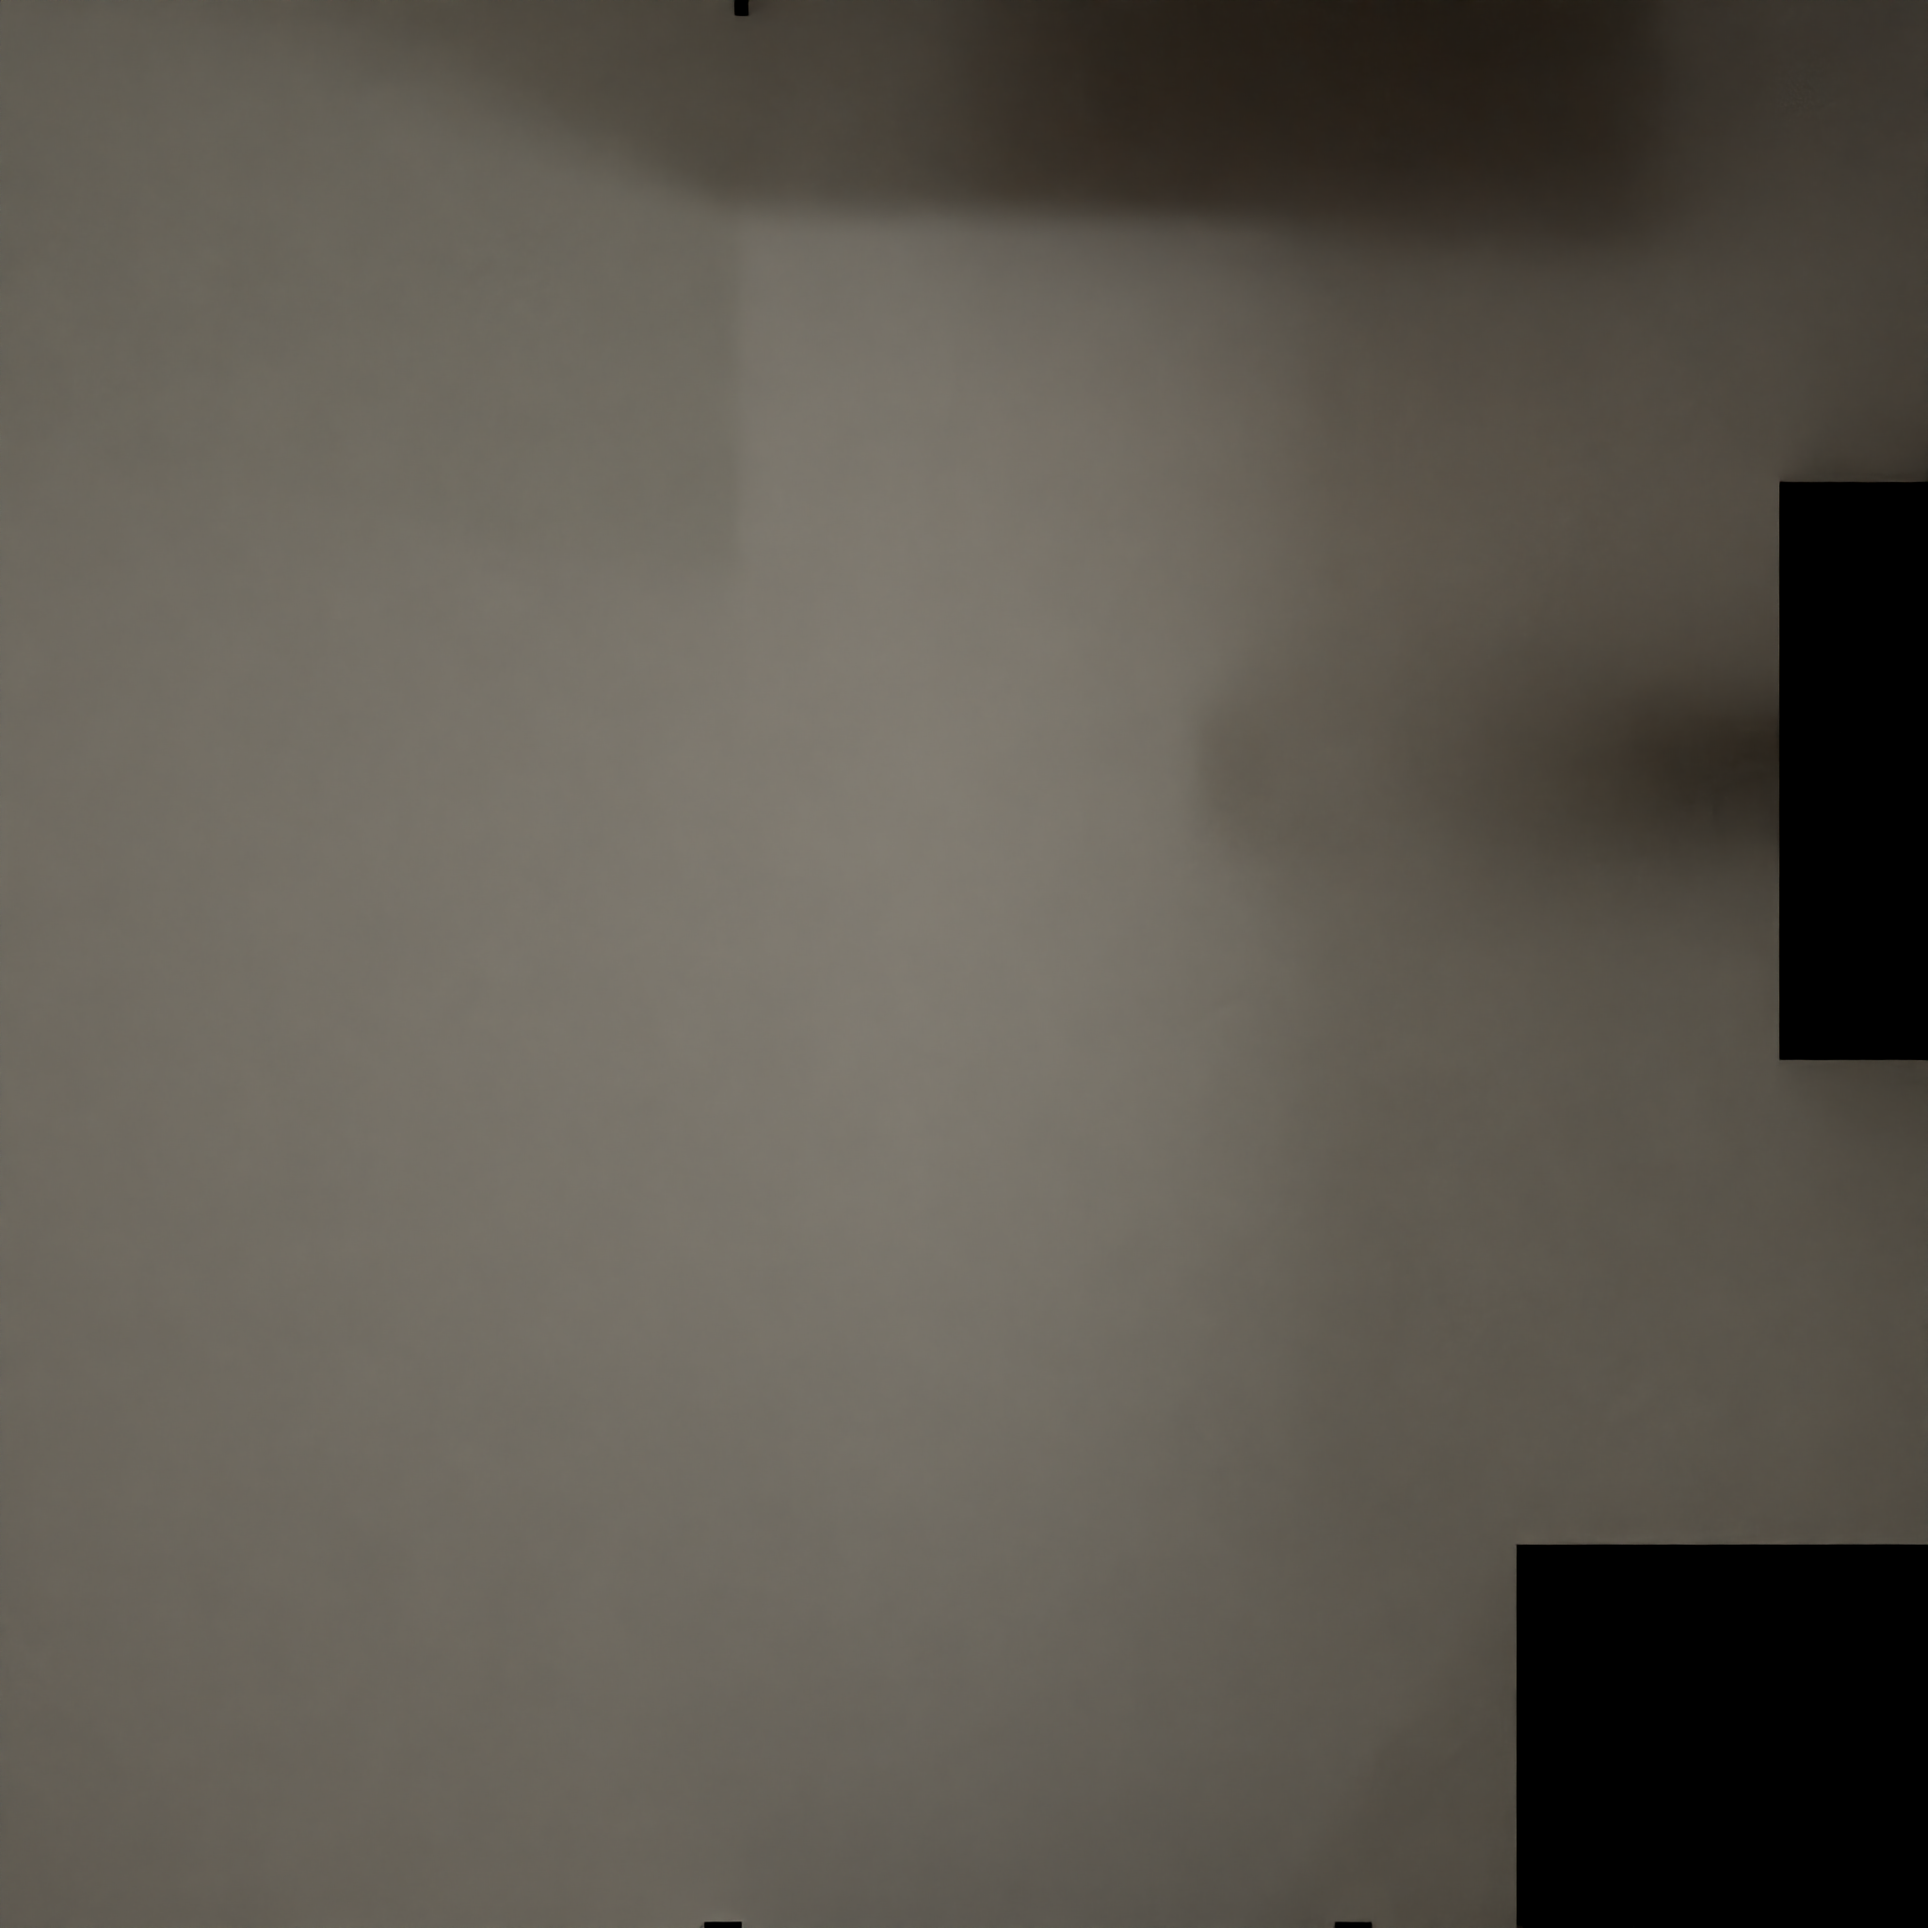
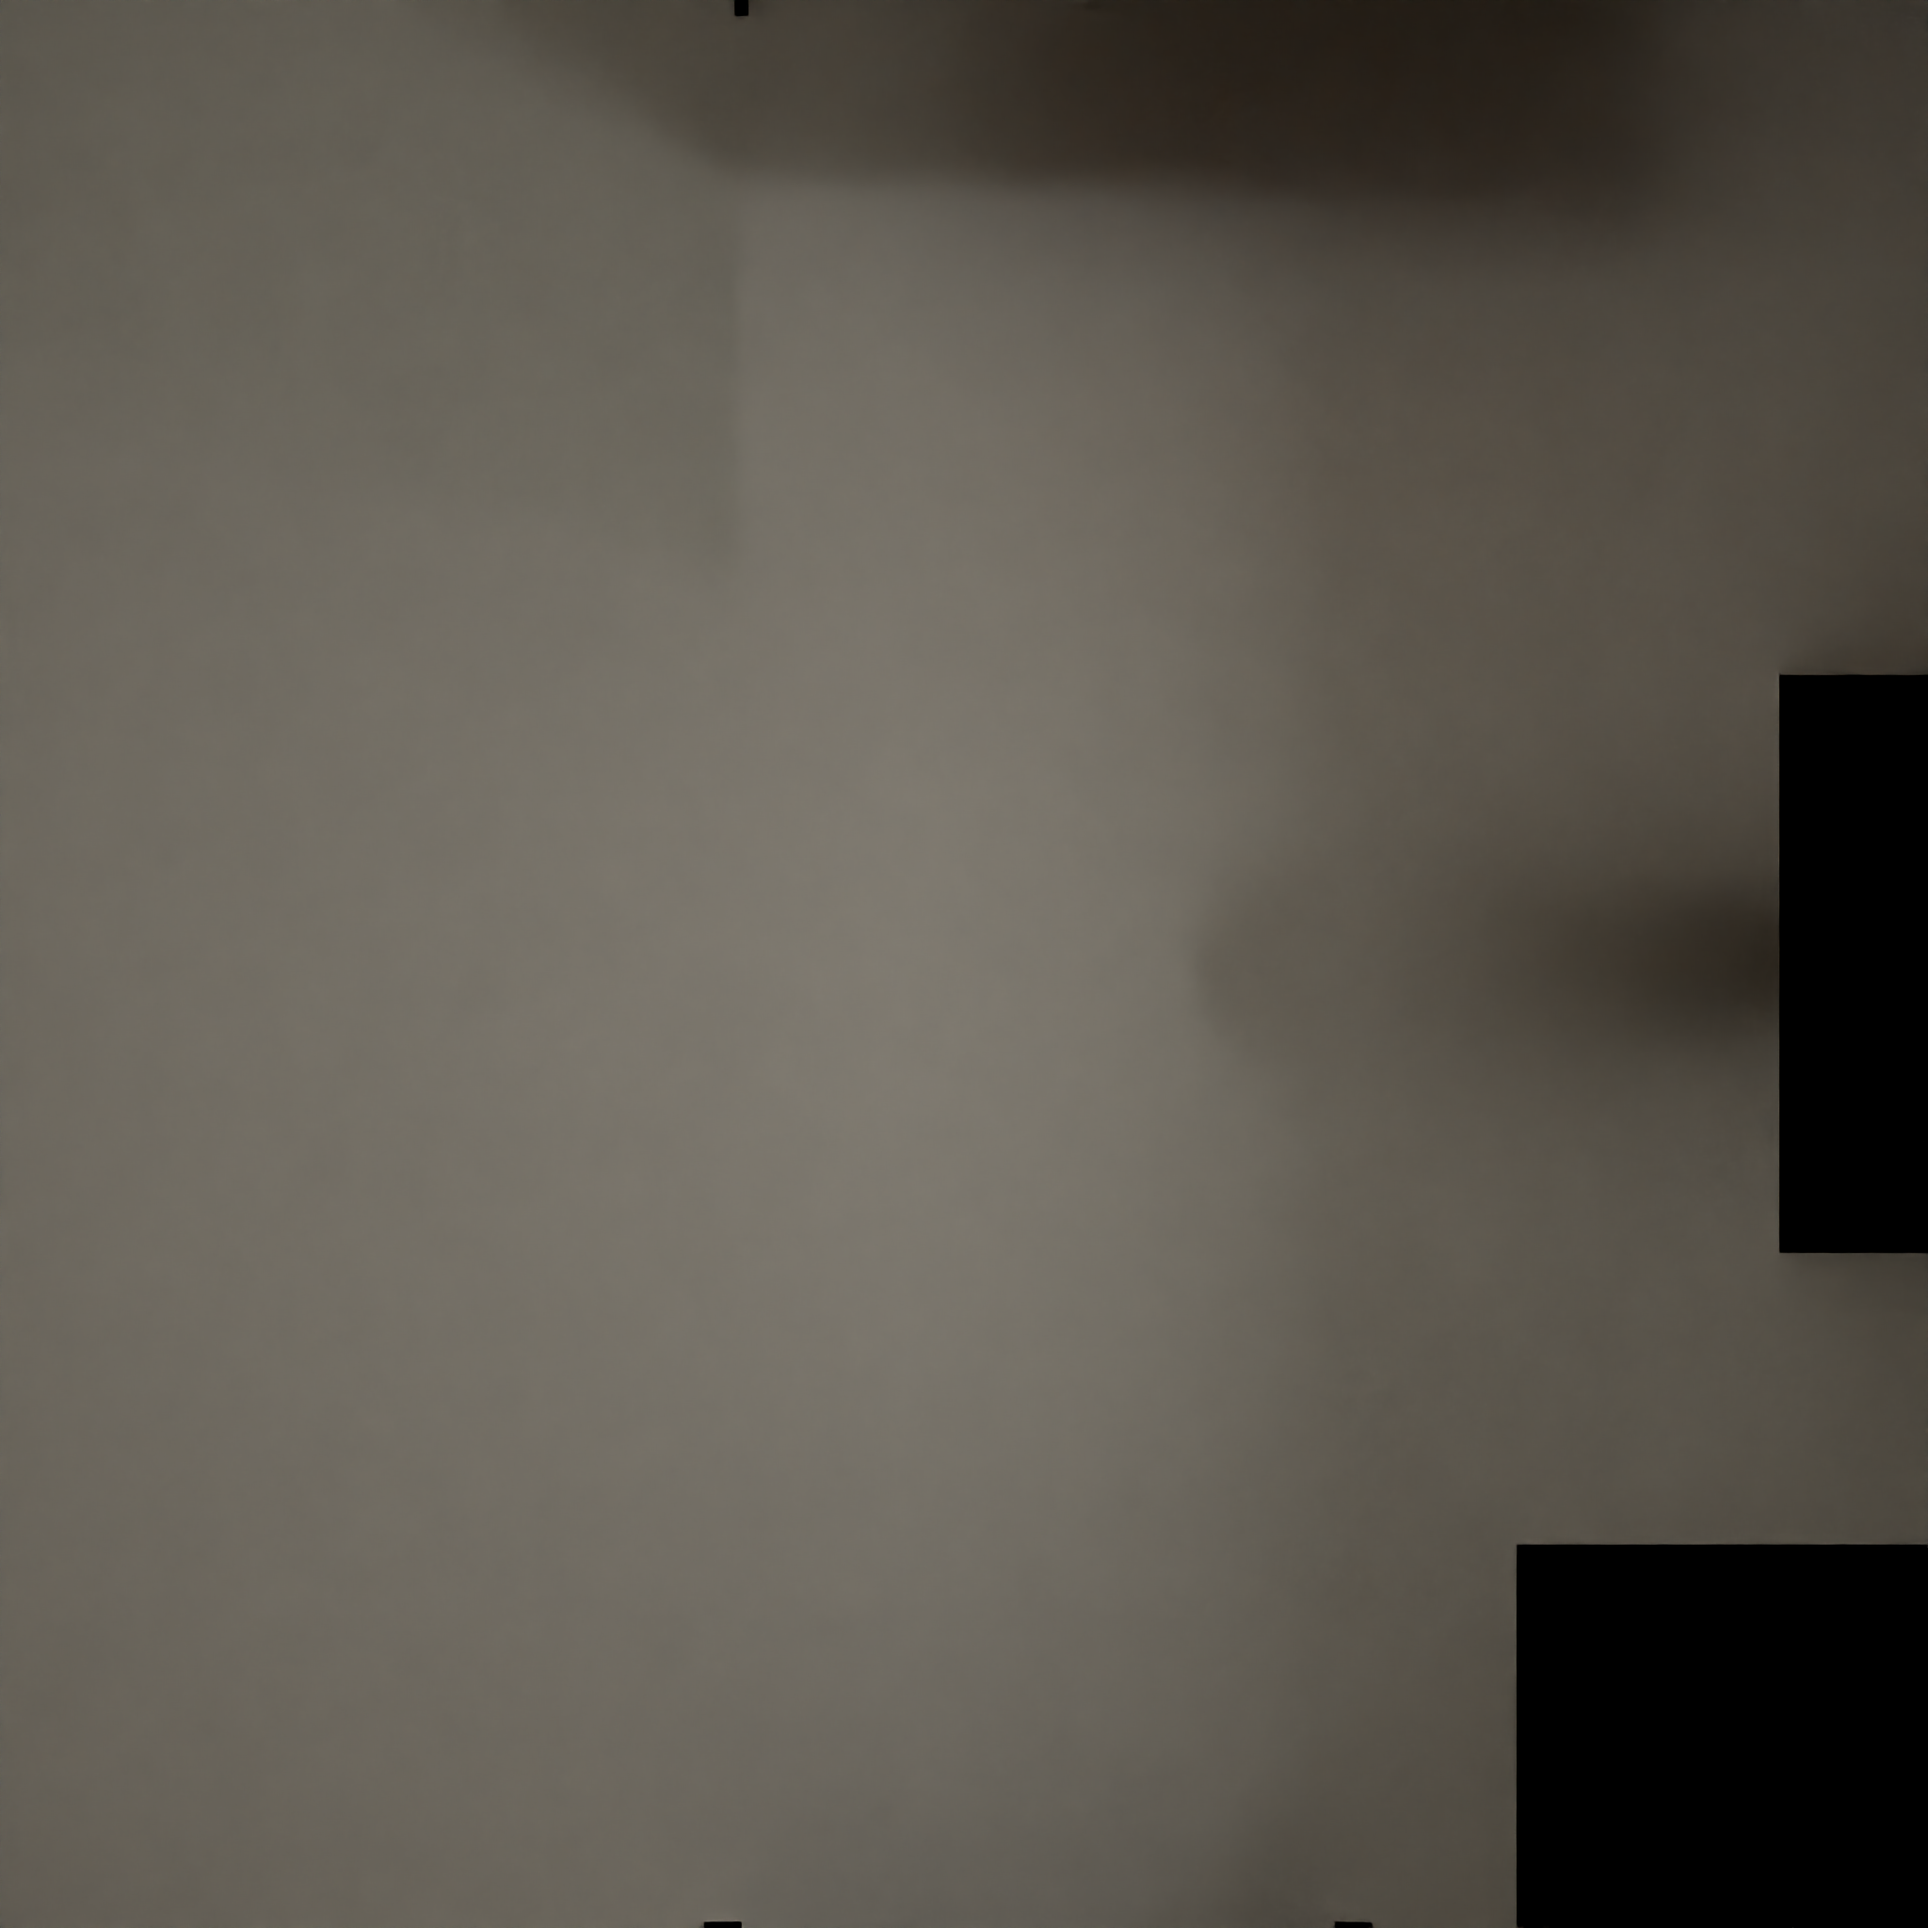
Bak flisene: the room, version 72261b9 of the project

Changed region(s): [[0.8125, 0.4688, 1.0, 0.6562], [0.8438, 0.25, 1.0, 0.4375]]

diff --git a/src/data/layout.js b/src/data/layout.js
@@ -18,7 +18,7 @@ export const LAYOUT = {
       wall_back: 0.25, // a joint on the basin's axis (x 1.75): equal 25 cm cuts in both corners
       wall_front: 0, // u runs from the right corner: a joint on the door's centre line (x 1.4), equal cuts by the casings
       wall_left: 0, // u runs from the door corner: 3.0 m is ten whole tiles
-      wall_right: 0, // the window (z 0.9-1.5) and the toilet's centre (z 1.2) on joints: the boxing gets equal 15 cm cuts
+      wall_right: 0, // the window (z 1.2-1.8) and the toilet's centre (z 1.5) on joints: the boxing gets equal 15 cm cuts
       rows: 0.2, // rows set out from the vanity line: joints at the counter top (0.8) and the mirror cabinet's
       // underside (1.1); a 20 cm row at the floor (cut to its fall) and a 10 cm row at the ceiling; the niche and the
       // window sit on these joints (Claude's call 2026-10-19: no sliver under the cabinet)
@@ -57,14 +57,16 @@ export const LAYOUT = {
     counter: { clipboard: { x: 2.05, z: 0.28 }, phone: { x: 1.42, z: 0.3 }, soap: { x: 1.36, z: 0.12 } },
   },
   mirror: { wall: 'back', x0: 1.25, x1: 2.25, y0: 1.1, y1: 1.8, depth: 0.14, display: { u0: 0.56, u1: 0.94, v0: 0.08, v1: 0.42 } },
-  // Wall-hung toilet on the right wall, facing left; frame boxed in.
+  // Wall-hung toilet on the right wall, facing left; frame boxed in. Its centre 1.04 m from the vanity's front and 0.9 m
+  // from the washer: the bowl stays out of the room to stand at the basin (the owner, 2026-10-25: "its to near to the
+  // sink"; the distances in tests/layout.test.js).
   toilet: {
-    wall: 'right', z: 1.2, boxing: { z0: 0.75, z1: 1.65, depth: 0.2, height: 1.2 },
-    paperHolder: { wall: 'right', z: 1.72, y: 0.72 },
+    wall: 'right', z: 1.5, boxing: { z0: 1.05, z1: 1.95, depth: 0.2, height: 1.2 },
+    paperHolder: { wall: 'right', z: 2.02, y: 0.72 },
   },
   // The window is in a dry wall (never in a wet zone: the owner's rule, 2026-10-19): over the toilet, centred on it,
   // clear of the boxing's shelf. A tiled-in reveal, 20 cm deep.
-  window: { wall: 'right', z0: 0.9, z1: 1.5, y0: 1.4, y1: 2.0, depth: 0.2 }, // edges on the tile joints
+  window: { wall: 'right', z0: 1.2, z1: 1.8, y0: 1.4, y1: 2.0, depth: 0.2 }, // edges on the tile joints
   // Two potted plants, a rubber duck and a wicker basket (photographed models, fixtures/plants.js): where each one's
   // foot stands (x, z, on its surface: the window sill, the floor, the shower niche's shelf), its yaw (radians,
   // three.js rotation.y), its scale (of the model's own metres) and, for a plant, how far its pot turns each way when
@@ -72,7 +74,7 @@ export const LAYOUT = {
   // and the tilting sash, at every turn and sway. reach: the floor a floor thing covers at any turn and sway (for the
   // walking area). The succulent turns all the way round (a small round pot in front of the window frame).
   plants: {
-    succulent: { surface: 'sill', x: 2.64, z: 1.32, yaw: 0, scale: 0.45, turn: Math.PI },
+    succulent: { surface: 'sill', x: 2.64, z: 1.62, yaw: 0, scale: 0.45, turn: Math.PI },
     leafyPlant: { surface: 'floor', x: 2.4, z: 0.2, yaw: 2.531, scale: 0.5, turn: 0.349, reach: { x0: 2.25, x1: 2.6, z0: 0.02, z1: 0.43 } },
   },
   duck: { surface: 'nicheShelf', x: 0.44, z: -0.045, yaw: 0.698, scale: 0.32 }, // facing out, toward the room
